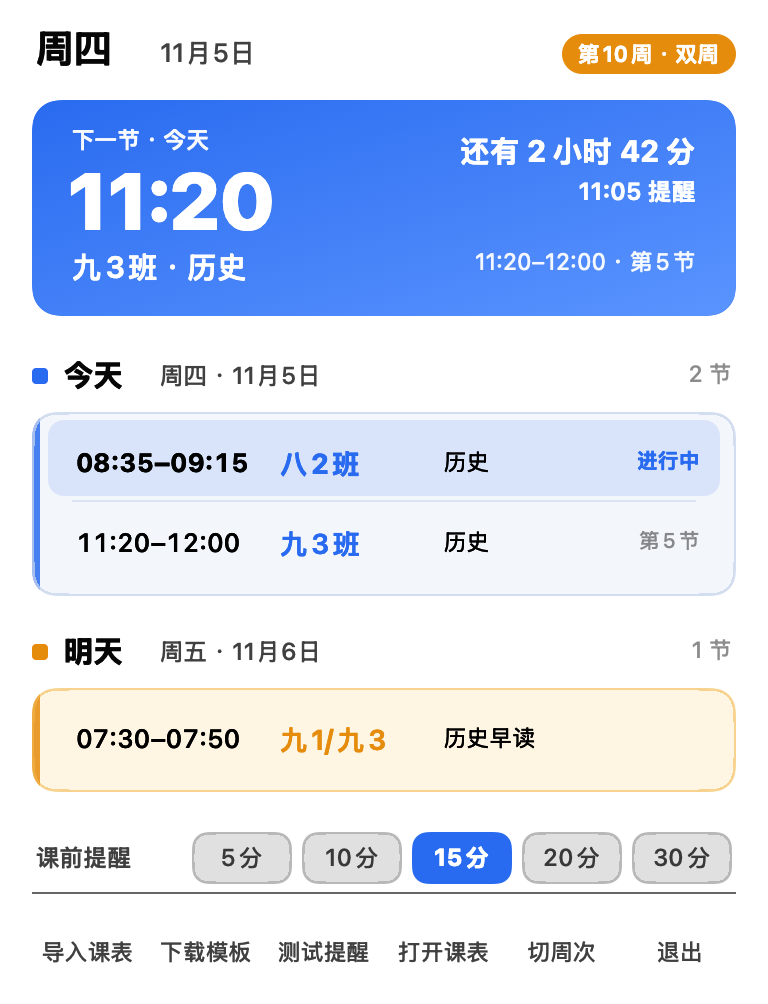
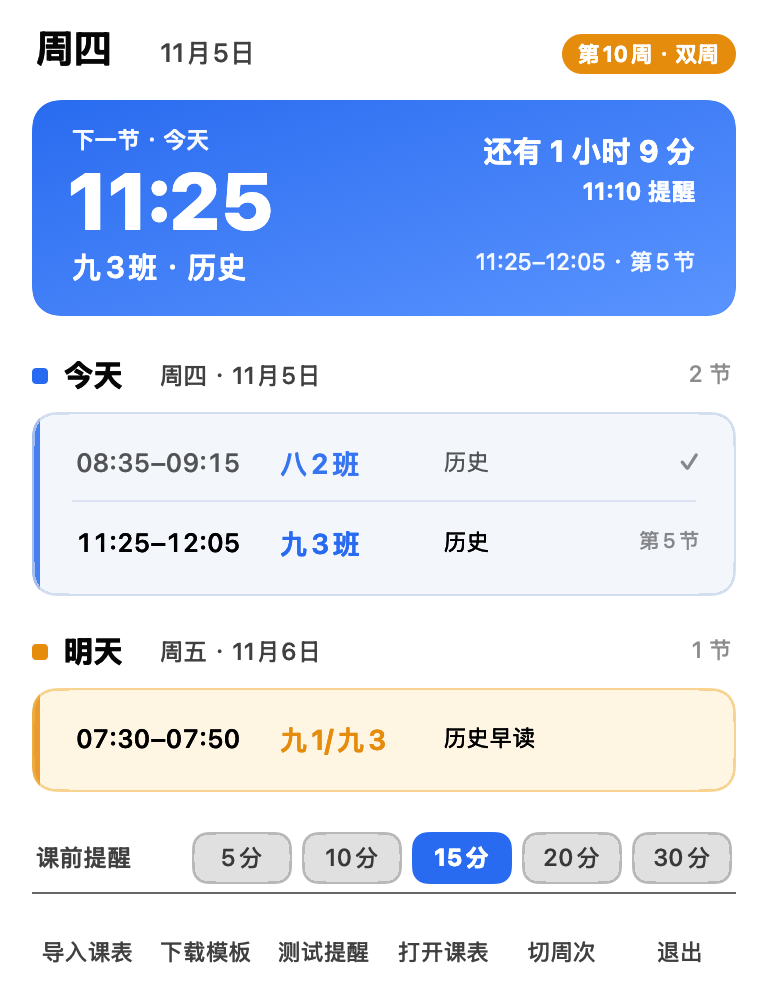
v1.1.1：修正第5节课时间 11:25-12:05（含示例课表与截图）

diff --git a/Sources/main.swift b/Sources/main.swift
@@ -79,7 +79,7 @@ func spoken(_ s: String) -> String {
     return out
 }
 
-/// "11:20" → "11点20分"
+/// "11:25" → "11点25分"
 func spokenTime(_ hm: String) -> String {
     let p = hm.split(separator: ":")
     guard p.count == 2 else { return hm }
@@ -763,7 +763,7 @@ final class AppDelegate: NSObject, NSApplicationDelegate, UNUserNotificationCent
            i + 1 < CommandLine.arguments.count {
             let root = alertRoot(size: NSSize(width: 620, height: 254),
                                  headline: "九3班 · 历史",
-                                 startTime: "11:20",
+                                 startTime: "11:25",
                                  sub: "还有 15 分钟",
                                  detail: "第5节")
             dumpView(root, to: CommandLine.arguments[i + 1])
@@ -1378,7 +1378,7 @@ final class AppDelegate: NSObject, NSApplicationDelegate, UNUserNotificationCent
                  detail: l.period > 0 ? "第\(l.period)节" : "",
                  speech: "\(spoken(l.klass))\(l.subject)课，\(spokenTime(l.start))上课，还有\(leadMinutes)分钟")
         } else {
-            push(headline: "九3班 · 历史", startTime: "11:20", sub: "还有 \(leadMinutes) 分钟",
+            push(headline: "九3班 · 历史", startTime: "11:25", sub: "还有 \(leadMinutes) 分钟",
                  detail: "这是测试 · 点「知道了」关闭",
                  speech: "九三班历史课，还有\(leadMinutes)分钟")
         }

diff --git a/README.md b/README.md
@@ -1,7 +1,7 @@
 <h1 align="center">⏰ 上课提醒 · ClassReminder</h1>
 
 <p align="center">
-  <a href="../../releases/latest"><img src="https://img.shields.io/badge/version-1.1.0-blue" alt="version"></a>
+  <a href="../../releases/latest"><img src="https://img.shields.io/badge/version-1.1.1-blue" alt="version"></a>
   <img src="https://img.shields.io/badge/macOS-13%2B-black" alt="platform">
   <img src="https://img.shields.io/badge/Swift-5-orange" alt="swift">
   <img src="https://img.shields.io/badge/dependencies-0-green" alt="deps">
@@ -41,7 +41,7 @@
 
 ## 📦 安装
 
-1. 到 Releases 下载 `ClassReminder-1.1.0.dmg`
+1. 到 Releases 下载 `ClassReminder-1.1.1.dmg`
 2. 双击挂载，把 `上课提醒.app` 拖进「应用程序」
 3. 第一次打开被拦，就在 App 上右键 →「打开」（没有开发者签名）
 
@@ -166,6 +166,7 @@ ClassReminder --shotbar o.png    # 渲染菜单栏示意
 
 完整记录见 [CHANGELOG.md](CHANGELOG.md)。
 
+- **v1.1.1**（2026-11-05）：修正第 5 节课时间（11:25–12:05）
 - **v1.1.0**（2026-11-05）：CSV 导入与模板、提醒卡片改版、提前分钟可选、菜单栏图标
 - **v1.0.0**（2026-11-04）：首个版本，菜单栏面板、单双周、课前提醒、语音播报
 

diff --git a/CHANGELOG.md b/CHANGELOG.md
@@ -1,5 +1,12 @@
 # 🗒 版本记录
 
+## v1.1.1 · 2026-11-05
+
+### 🐛 修复
+
+- 上午第 5 节课时间写错：`11:20–12:00` → **`11:25–12:05`**，涉及周一第 5 节（七1班）和周四第 5 节（九3班）
+- 同步更新示例课表、`课表示例.csv` 与内置默认课表
+
 ## v1.1.0 · 2026-11-05
 
 ### ✨ 新增
